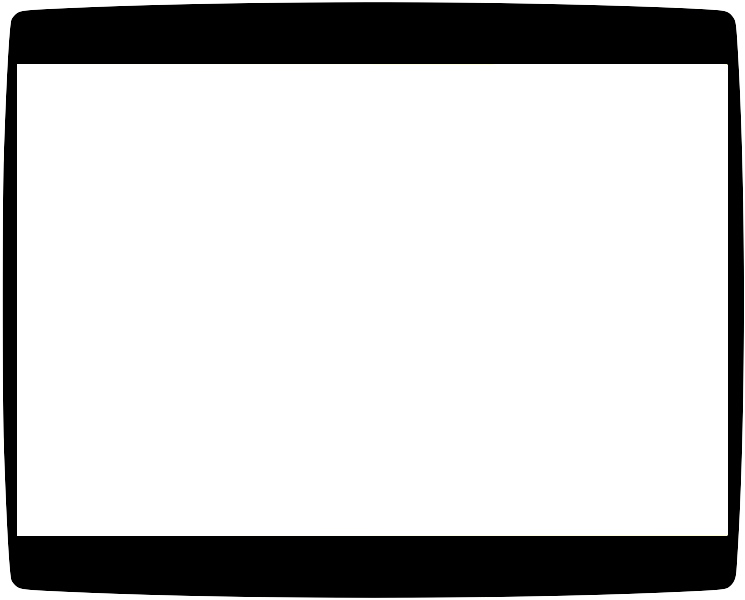
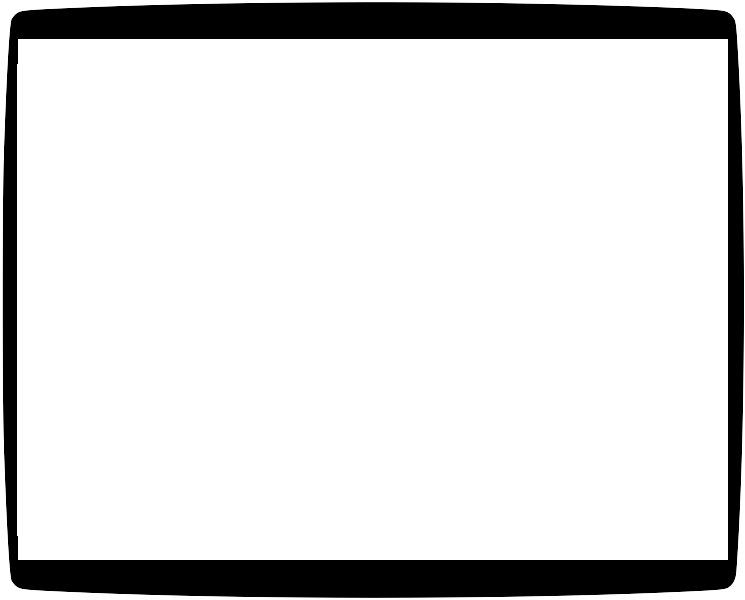
fix miximage view preview

Changed region(s): [[0.0, 0.87, 0.9879, 0.96], [0.0, 0.06, 0.9879, 0.12]]

diff --git a/frontend/src/v2/components/shared/GameCover.vue b/frontend/src/v2/components/shared/GameCover.vue
@@ -240,6 +240,7 @@ defineExpose({
       "
       :alt="title"
       :style="{ objectFit: art.objectFit.value }"
+      class="game-cover__img"
       :class="{
         'game-cover__img--behind': isVideoPlaying,
         'game-cover__img--reveal': !coverLoaded && art.motionEnabled.value,
@@ -268,6 +269,17 @@ defineExpose({
       playsinline
       preload="none"
     />
+    <!-- Static miximage frame overlaid on the hover video while it plays
+         (matches v1) — sits after the <video> so it stacks above it but
+         below the surface chrome slot. -->
+    <img
+      v-if="art.videoUrl.value"
+      class="game-cover__video-frame"
+      :class="{ 'game-cover__video-frame--playing': isVideoPlaying }"
+      src="/assets/default/miximage.png"
+      alt=""
+      aria-hidden="true"
+    />
 
     <!-- Surface chrome (gallery overlay / badges / glow) renders on top. -->
     <slot />
@@ -291,7 +303,7 @@ defineExpose({
 }
 
 /* Direct-child selector so the placeholder's own <img> isn't matched. */
-.game-cover > img {
+.ame-cover__img {
   position: absolute;
   inset: 0;
   width: 100%;
@@ -324,7 +336,7 @@ defineExpose({
 
 @media (prefers-reduced-motion: reduce) {
   /* Keep a gentle opacity fade, drop the blur/scale flourish. */
-  .game-cover > img {
+  .game-cover__img {
     transition: opacity 0.25s ease;
   }
   .game-cover__img--reveal {
@@ -335,15 +347,30 @@ defineExpose({
 
 .game-cover__video {
   position: absolute;
-  inset: 0;
-  width: 100%;
-  height: 100%;
+  top: 0.75rem;
+  left: 0.35rem;
+  width: 97%;
   object-fit: contain;
   opacity: 0;
   transition: opacity 0.35s ease;
   pointer-events: none;
 }
 .game-cover__video--playing {
+  opacity: 1;
+}
+
+.game-cover__video-frame {
+  position: absolute;
+  top: 0;
+  width: 100%;
+  object-fit: contain;
+  opacity: 0;
+  transition: opacity 0.35s ease;
+  pointer-events: none;
+  transform: scale(1.01);
+  filter: hue-rotate(15deg);
+}
+.game-cover__video-frame--playing {
   opacity: 1;
 }
 </style>